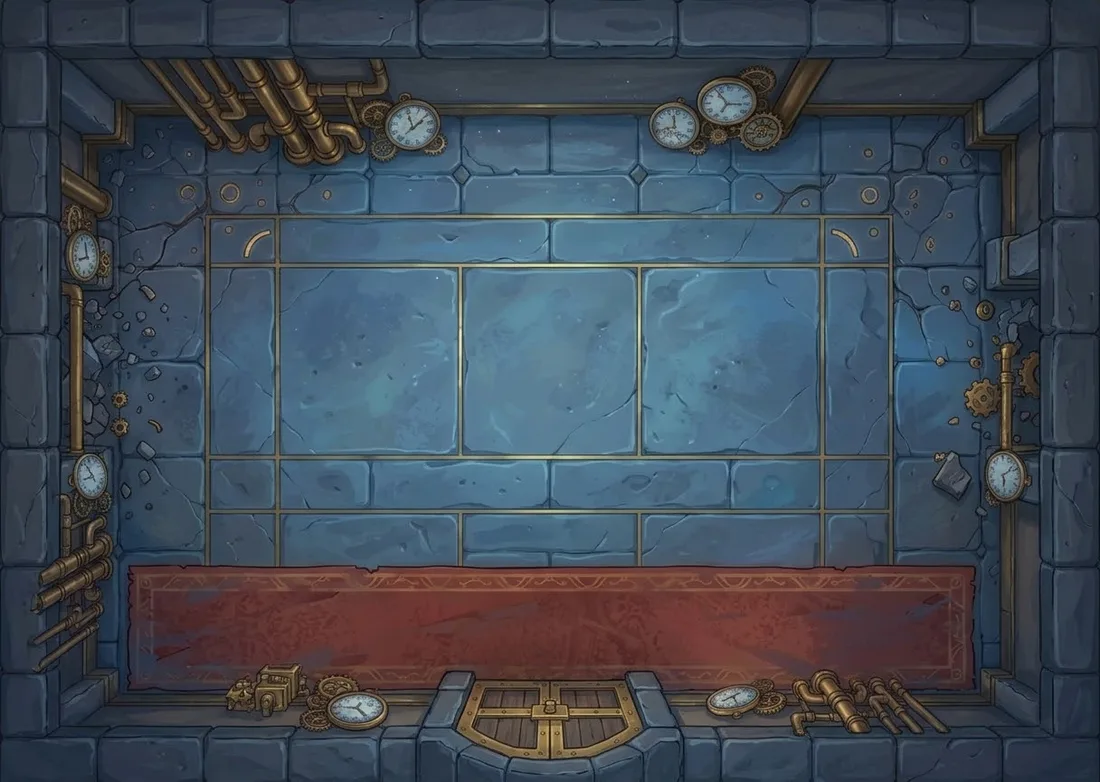
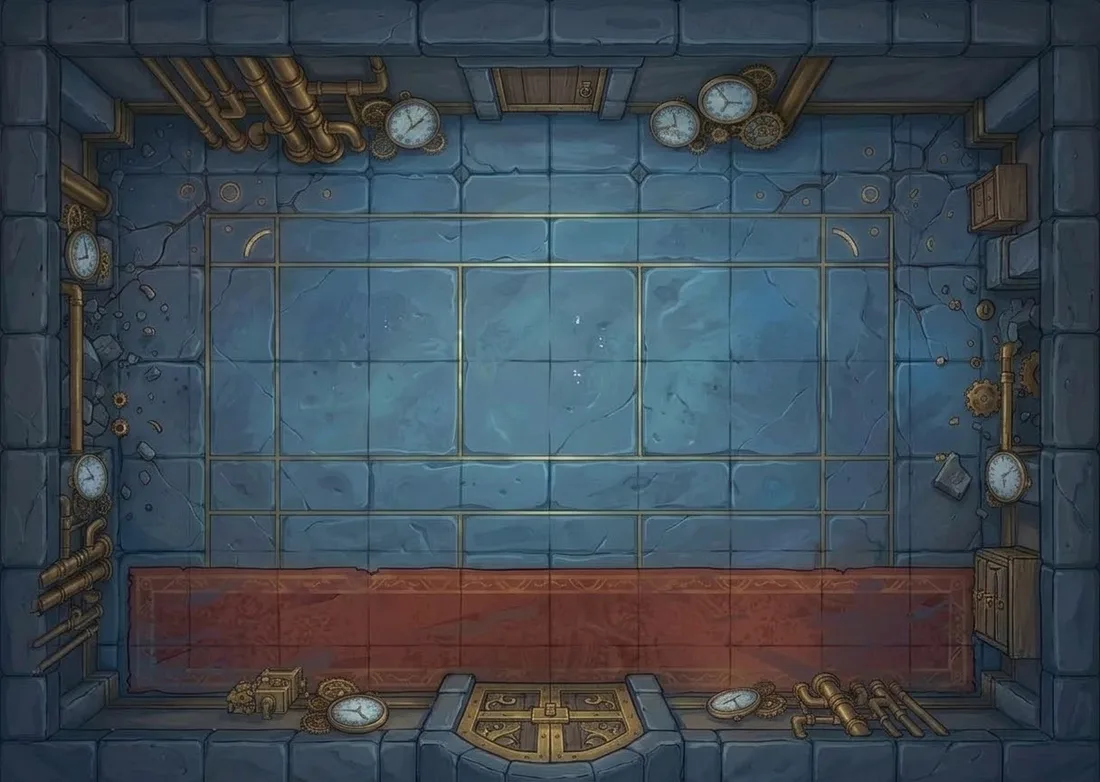
Chroniques : 7 salles peintes avec leurs murs, portes et objets calés sur les dessins

diff --git a/essais/dice-arena/chroniques-moteur.js b/essais/dice-arena/chroniques-moteur.js
@@ -242,17 +242,20 @@ const COULOIRS_Z2 = {
 const LIENS2 = [[[22, 5], [22, 8]], [[1, 8], [1, 17]], [[18, 17], [20, 25]]];
 const ETAGES2 = [[0, 6, 'Le sommet'], [7, 15, '1er étage'], [16, 23, 'Rez-de-chaussée'], [24, 30, 'Sous-sol']];
 const etageDe = (S, y) => { if (!S || !S.R || S.R.plan !== 2) return null; const e = ETAGES2.find(([a, b]) => y >= a && y <= b); return e ? e[2] : null; };
-const PORTES = [[6, 4, 'S'], [15, 4, 'H', 'bronze'], [5, 9, 'B'], [11, 9, 'E'], [15, 9, 'F'], [5, 18, 'A'], [11, 18, 'C'], [13, 26, 'G'], [5, 22, 'A', 'entree']];
+// 16/11 : portes de la Réserve, de la Bibliothèque et de la Galerie posées sur les portes PEINTES par Gemini (décalées d'une case)
+const PORTES = [[5, 4, 'S'], [15, 4, 'H', 'bronze'], [5, 9, 'B'], [11, 9, 'E'], [16, 9, 'F'], [5, 18, 'A'], [12, 18, 'C'], [13, 26, 'G'], [5, 22, 'A', 'entree']];
 // la grille du Cagibi s'ouvre tant qu'un héros se tient sur la dalle du couloir ; les 4 statues de la Galerie (autel au milieu)
-const GRILLE = [20, 9], DALLE = [18, 8], AUTEL_S = [5, 2], STATUES = [[5, 1], [6, 2], [5, 3], [4, 2]];
+// les statues sur les 4 socles peints aux coins de la Galerie (dans l'ordre du tour : haut-gauche, haut-droite, bas-droite, bas-gauche) ;
+// celles du haut doivent regarder vers le bas (vers l'autel), celles du bas vers le haut
+const GRILLE = [20, 9], DALLE = [18, 8], AUTEL_S = [5, 2], STATUES = [[4, 1], [7, 1], [7, 3], [4, 3]], VEUT_S = [2, 2, 0, 0];
 const MEUBLES = [[7, 19, 'coffre', 'A'], [3, 21, 'tonneaux', 'A'], [10, 19, 'armoire', 'C'], [13, 19, 'tonneaux', 'C'], [13, 21, 'armoire', 'C'],
   [12, 28, 'tombeau', 'G'], [14, 28, 'tombeau', 'G'], [15, 27, 'coffre', 'G'], [12, 10, 'etabli', 'E'], [12, 12, 'armoire', 'E'], [17, 13, 'coffre', 'F'], [3, 13, 'tonneaux', 'B'], [20, 3, 'cheminee', 'H'], [19, 12, 'coffre', 'P']];
 const ROUAGES_CACHES = ['13,21', '14,28', '12,10', '17,13'];
 const LEVIERS = [[3, 11], [3, 12], [7, 11], [7, 12]]; // sur les deux pupitres peints de la salle (dessin salle-rouages)
-const ETAGERES = [[15, 11], [16, 11], [15, 13]], LIVRE = [17, 11], AXE = [15, 2];
+const ETAGERES = [[14, 11], [14, 12], [17, 12]], LIVRE = [17, 11], AXE = [15, 2]; // contre les murs, comme les étagères peintes
 const DEPART = [[4, 21], [5, 21], [6, 21], [5, 20]]; // juste devant la grande porte d'entrée, comme si on venait d'entrer
 const MONSTRES_DEPART = [['rouagelin', 11, 20], ['rouagelin', 14, 17], ['page', 13, 28], ['page', 17, 25], ['gardien', 5, 12], ['rouagelin', 6, 11],
-  ['coucou', 9, 8], ['coucou', 19, 8], ['page', 14, 12], ['archiviste', 16, 12], ['rouagelin', 12, 5], ['rouagelin', 18, 5], ['colosse', 10, 11]];
+  ['coucou', 9, 8], ['coucou', 19, 8], ['page', 15, 12], ['archiviste', 16, 12], ['rouagelin', 12, 5], ['rouagelin', 18, 5], ['colosse', 10, 11]];
 const OBJETS = { bouclier:{ n:'Bouclier de bronze', d:'Bouclier 3 à chaque fois qu’une porte s’ouvre.' }, cle:{ n:'Clé à molette', d:'+1 dé à chaque tour.' }, lunettes:{ n:'Lunettes de l’horloger', d:'Voit tous les pièges.' } };
 const MEUBLE_N = { coffre:'le coffre', armoire:'l’armoire', tonneaux:'les tonneaux', tombeau:'le tombeau', etabli:'l’établi', cheminee:'la cheminée', lit:'le lit de camp', tente:'la tente', etagere:'l’étagère', bureau:'le bureau', banc:'le banc', autel:'l’autel', fontaine:'la fontaine', cristaux:'les cristaux' };
 const cle = (x, y) => x + ',' + y;
@@ -314,7 +317,7 @@ function nouvelle(heros, s, scen, opts = {}) {
   // la grille : la case reste « fermée » sauf quand un héros est sur la dalle
   delete R.murs[cle(...GRILLE)]; R.grille = { x:GRILLE[0], y:GRILLE[1], dx:DALLE[0], dy:DALLE[1] };
   // les statues (murs 'T') : chacune regarde N/E/S/O (0-3) ; but = toutes vers l'autel ; tourner l'une tourne aussi la suivante
-  R.murs[cle(...AUTEL_S)] = 'O'; const veut = [2, 3, 0, 1]; // N de l'autel regarde S, E regarde O…
+  R.murs[cle(...AUTEL_S)] = 'O'; const veut = VEUT_S; // N de l'autel regarde S, E regarde O…
   R.statues = STATUES.map(([x, y], i) => ({ x, y, d:veut[i], veut:veut[i] }));
   for (let k = 0; k < 3; k++) { const i = Math.floor(hasard(S) * 4); tourneStatue(R, i); } // mélangées depuis la bonne position : toujours faisable
   if (R.statues.every(t => t.d === t.veut)) tourneStatue(R, 0);

diff --git a/essais/dice-arena/chroniques.html b/essais/dice-arena/chroniques.html
@@ -200,13 +200,13 @@ function schemaSVG(grand) {
 function petiteCarte() { const e = $('pcarte'); if (e && S) e.innerHTML = schemaSVG(false); }
 function grandeCarte() { fenetre(`<h2>🗺 Le donjon</h2><div class="schema-grand">${schemaSVG(true)}</div><p style="text-align:center;color:var(--doux);font-size:.9em">Le doré : la zone que tu regardes. Les ronds : tes héros. Les points rouges : les monstres vus.</p><button class="go" onclick="fenetre('')">Fermer</button>`); }
 // 16/11 : les salles repeintes AVEC LEURS MURS (vue plus haute, prompts salle-<nom>-v2) : l'image couvre aussi la case de mur tout autour
-const SALLE_MURS = ['A'];
+const SALLE_MURS = ['A', 'C', 'B', 'E', 'F', 'S', 'P']; // reçues le 16/11 (manquent la Crypte G et le Cœur H)
 function fondSalle(S, x, y) {
   if ((S.scen || 'horloger') !== 'horloger') return '';
   let id = S.R.salle[K.cle(x, y)];
   if (!id) id = SALLE_MURS.find(k => { const [a, b, w, h] = K.rectSalle(S, k); return x >= a - 1 && x <= a + w && y >= b - 1 && y <= b + h; });
   const D = id && K.SALLES[id], f = SALLE_IMG[id]; if (!D || !f) return '';
-  if (SALLE_MURS.includes(id)) { const [a, b, w, h] = K.rectSalle(S, id); return `background:url('decor/salle-${f}-v2.webp?v=1') calc(var(--t) * ${a - 1 - x}) calc(var(--t) * ${b - 1 - y}) / calc(var(--t) * ${w + 2}) calc(var(--t) * ${h + 2}) no-repeat;`; }
+  if (SALLE_MURS.includes(id)) { const [a, b, w, h] = K.rectSalle(S, id); return `background:url('decor/salle-${f}-v2.webp?v=2') calc(var(--t) * ${a - 1 - x}) calc(var(--t) * ${b - 1 - y}) / calc(var(--t) * ${w + 2}) calc(var(--t) * ${h + 2}) no-repeat;`; }
   const [x0, y0, w, h] = K.rectSalle(S, id);
   return `background:url('decor/salle-${f}.webp?v=2') calc(var(--t) * ${x0 - x}) calc(var(--t) * ${y0 - y}) / calc(var(--t) * ${w}) calc(var(--t) * ${h}) no-repeat;`;
 }
@@ -394,7 +394,7 @@ function dessine() {
     else if (mur === 'B') inner = objImg('etagere');
     else if (mur === 'K') inner = '<span class="o">📕</span>';
     else if (mur === 'T') { const t = R.statues.find(z => z.x === x && z.y === y); inner = `<img class="oi statue ${R.statuesOk ? 'fait-ok' : ''}" src="decor/obj-statue.webp?v=1" alt="" style="transform:rotate(${t.d * 90}deg)">`; }
-    else if (mur === 'O') inner = objImg('autel', R.statuesOk ? 'brille' : '');
+    else if (mur === 'O') inner = R.plan === 2 && SALLE_MURS.includes('S') && !R.statuesOk ? '' : objImg('autel', R.statuesOk ? 'brille' : ''); // le cercle de laiton peint fait l'autel
     else if (mur === 'A') inner = `${(S.scen || 'horloger') === 'horloger' ? objImg('axe') : `<span class="o">${K.SCEN[S.scen || 'horloger'].axeE}</span>`}<span class="lv">${R.rouagesPoses}/3</span>`;
     else { if (!R.salle[c]) cl += ' couloir';
       if (o && o.t === 'piege' && !o.trouve && (o.vu || voitPieges || S.heros.some(z => z.id === 'oria' && Math.abs(z.x - x) + Math.abs(z.y - y) <= 2))) inner = '<span class="o">⚠</span>';
